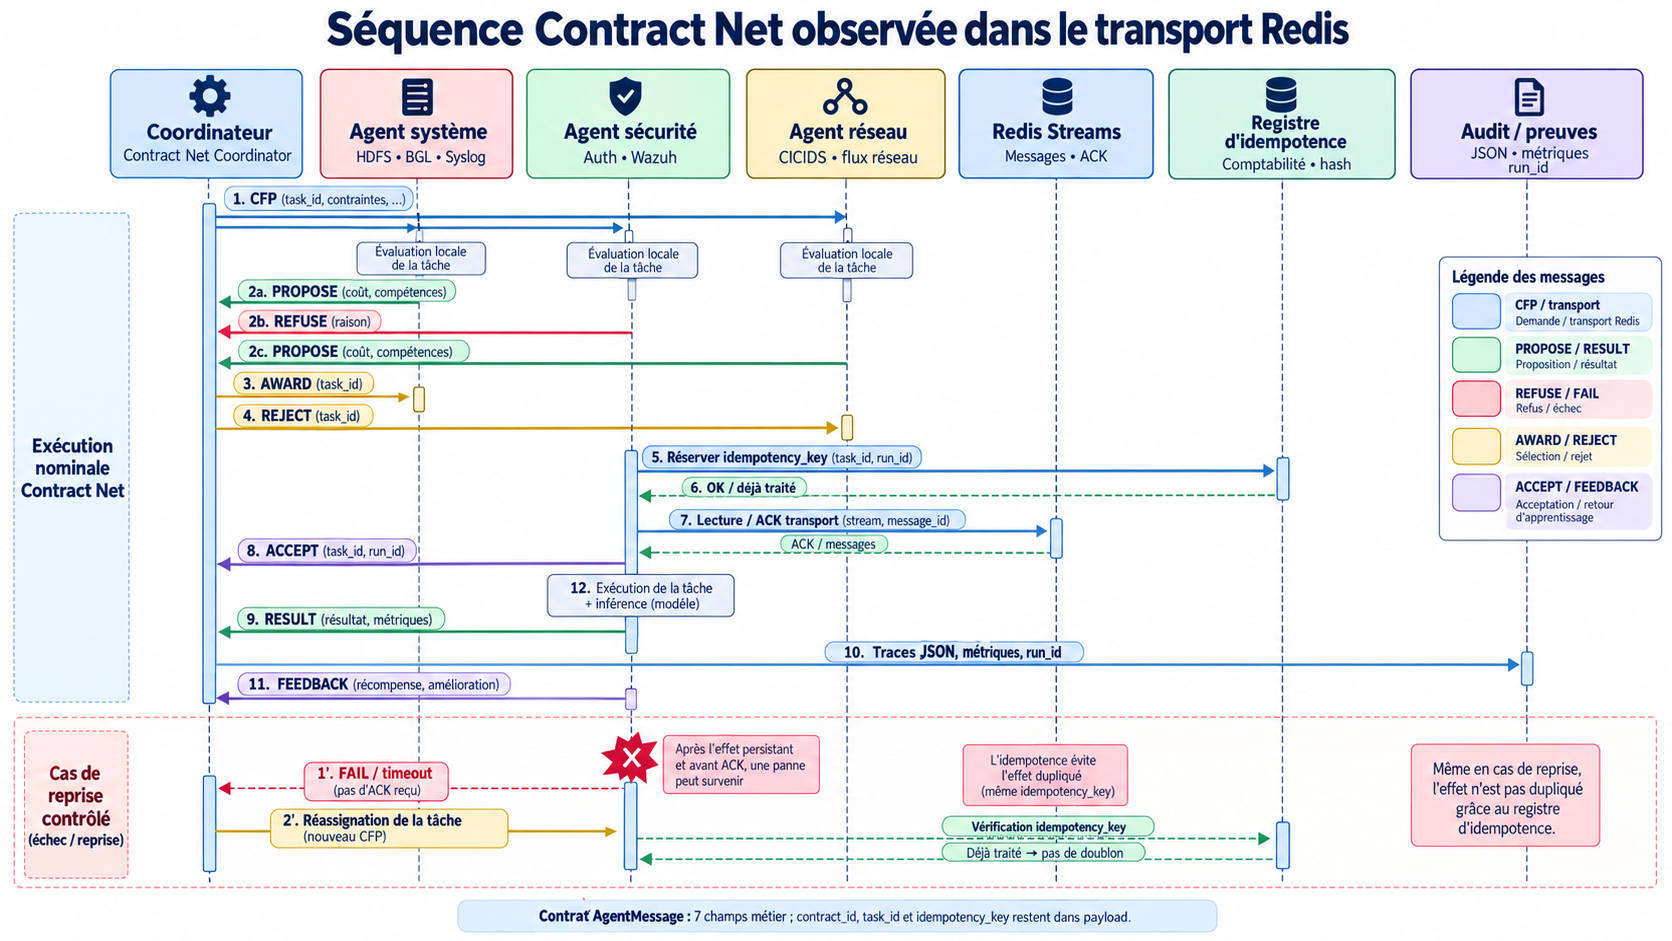
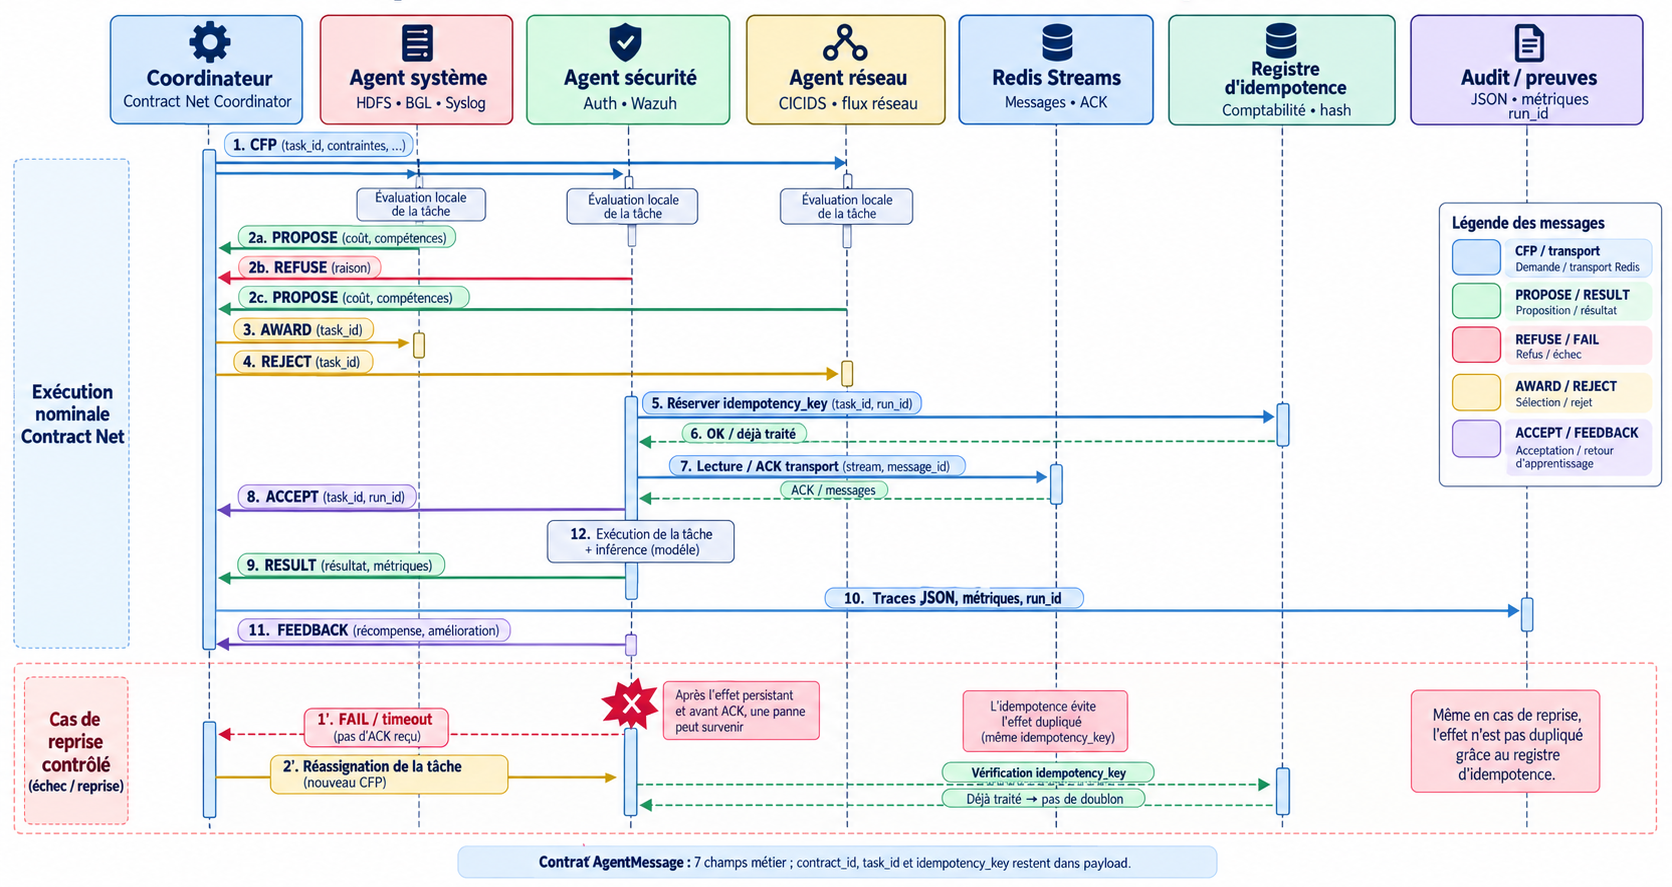
Rédaction_8 avant remise aux co-directeurs

Changed region(s): [[0.0, 0.0, 0.9952, 1.0], [0.0, 0.4262, 0.0933, 0.5479]]

diff --git a/ARIEL_LOGMINER_MEMOIRE_FINAL/chapters/chapitre4_implementation.tex b/ARIEL_LOGMINER_MEMOIRE_FINAL/chapters/chapitre4_implementation.tex
@@ -100,12 +100,10 @@ L'API expose les informations nécessaires au fonctionnement de l'interface : é
 
 Le tableau de bord sert avant tout à examiner les alertes, les incidents candidats et les éléments de preuve disponibles. Il constitue un support à l'analyse ; il ne remplace pas la validation humaine.
 
-La note détaillée associée à la figure est reportée dans l’annexe~\ref{ann:notes-figures}.
-
 \begin{figure}[H]
     \centering
     \includegraphics[width=0.94\textwidth]{dashboard_vue_ensemble.png}
-    \caption[Vue d'ensemble du tableau de bord Ariel Logminer.]{Vue d'ensemble du tableau de bord Ariel Logminer. Source : prototype local Ariel Logminer.}
+    \caption{Vue d'ensemble du tableau de bord. L'interface rassemble les volumes, états et alertes et relie une exécution à ses résultats. Sa validation est fonctionnelle et distincte de l'évaluation prédictive. Source : prototype local Ariel Logminer.}
     \label{fig:dashboard-vue-ensemble}
 \end{figure}
 
@@ -124,4 +122,3 @@ Les manifestes conservent la provenance des jeux de données ainsi que l'unité 
 Chaque campagne possède un identifiant d'exécution et enregistre ses paramètres avec les résultats qu'elle produit. Cette liaison permet de retrouver l'origine d'une valeur sans dépendre d'une transcription manuelle.
 
 Les figures présentées dans le chapitre suivant sont générées directement à partir de ces artefacts CSV ou JSON. Un script commun centralise le style des graphiques, les unités et les sources utilisées. Cette organisation réduit le risque qu'un tableau, une figure et le texte du mémoire rapportent des valeurs différentes pour une même expérience.
-```

diff --git a/ARIEL_LOGMINER_MEMOIRE_FINAL/chapters/chapitre3_modele_propose.tex b/ARIEL_LOGMINER_MEMOIRE_FINAL/chapters/chapitre3_modele_propose.tex
@@ -193,7 +193,7 @@ feedback/.style={-{Latex[length=2.2mm]}, dashed, thick}
 
 }
 
-\caption{Architecture logique finale d'Ariel \logminer{}.}
+\caption{Architecture logique d'Ariel \logminer{}.}
 
 \label{fig:architecture-logique}
 
@@ -451,7 +451,7 @@ Les précisions d’interprétation relatives aux figures suivantes sont regroup
 
 \includegraphics[width=\textwidth]{fig_architecture_multi_agent_global.png}
 
-\caption[Architecture multi-agents évaluée.]{Architecture multi-agents évaluée. Source : auteur.}
+\caption[Architecture multi-agents.]{Architecture multi-agents. Source : auteur.}
 
 \label{fig:architecture-multi-agent}
 
